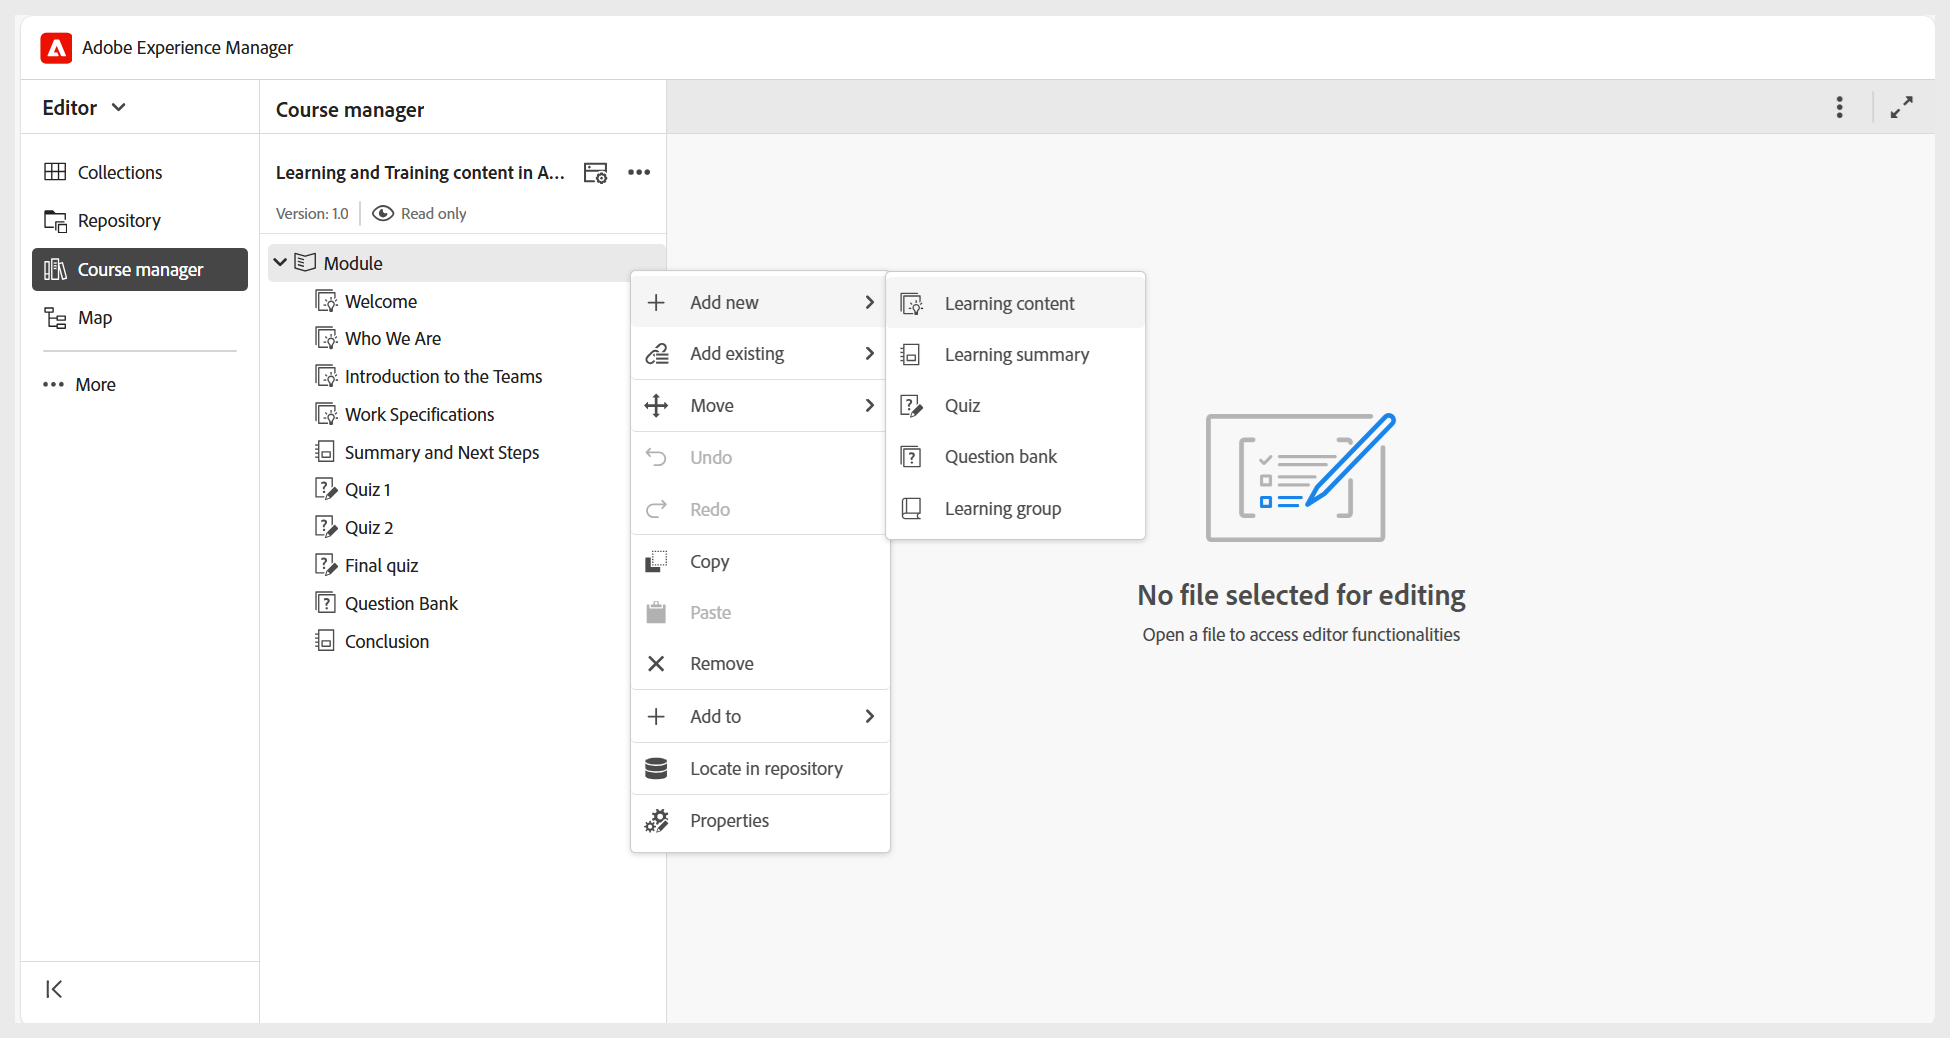
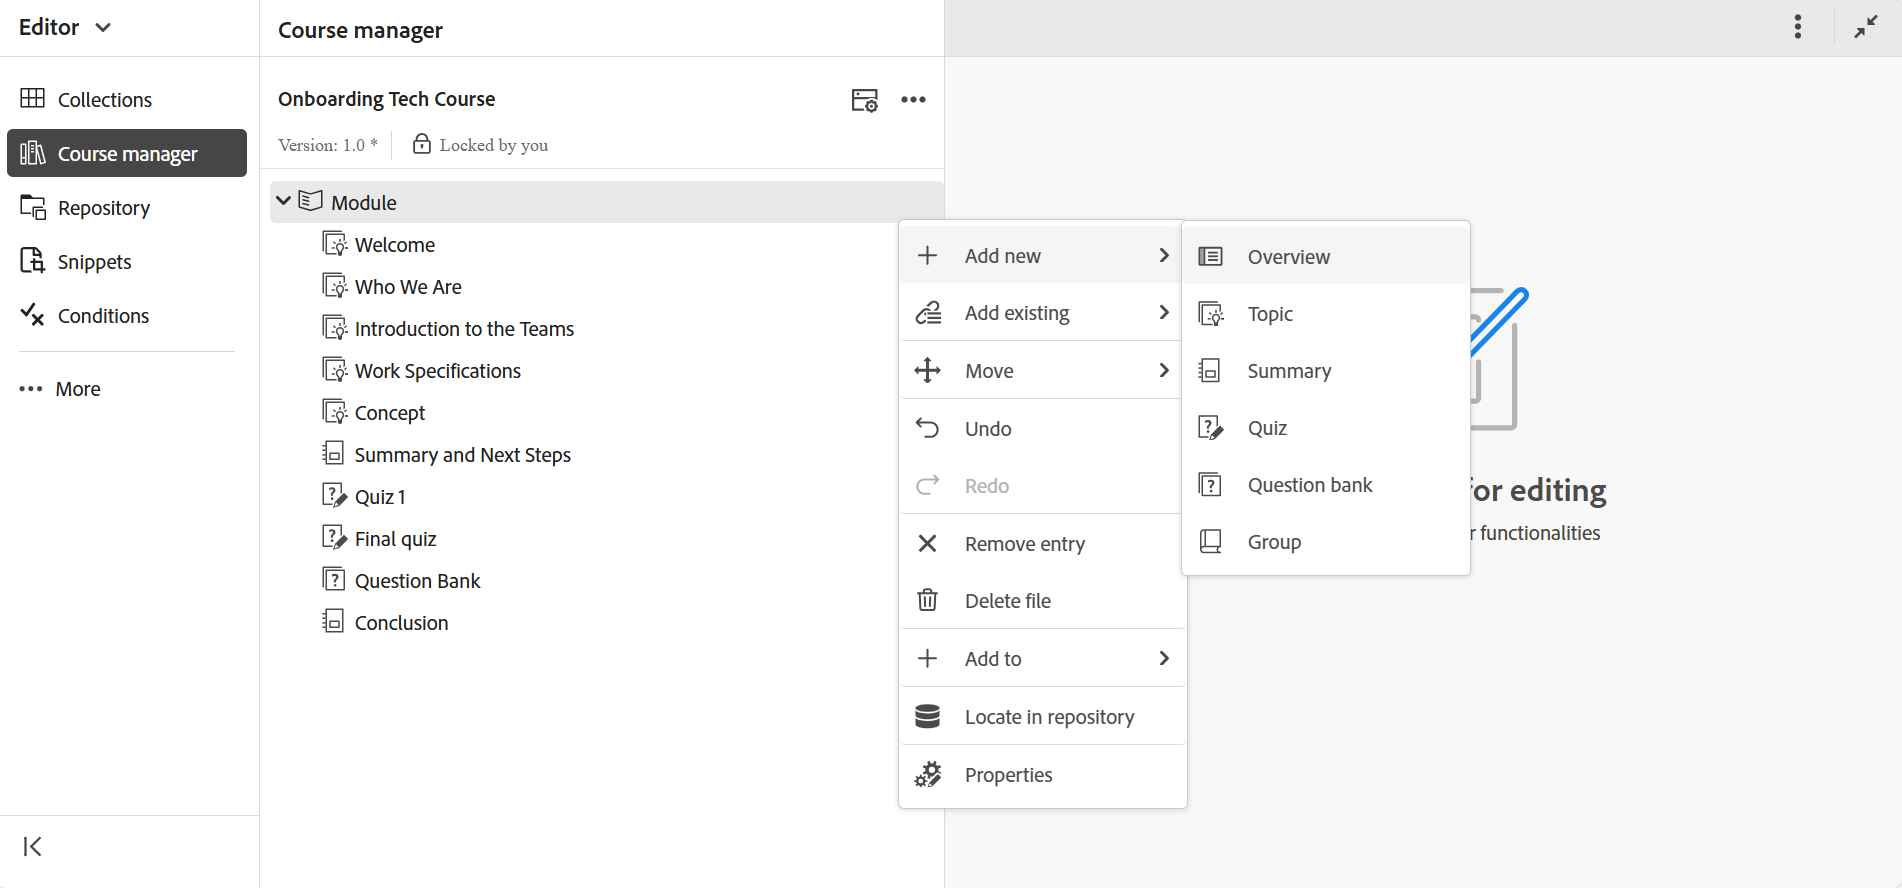
checking in quick start guide updates
Updated articles

diff --git a/help/product-guide/learning-content/manage-course.md b/help/product-guide/learning-content/manage-course.md
@@ -17,11 +17,12 @@ Perform the following steps to add new content in your course:
     
     ![](assets/learning-course-content.png)
 2. Select the type of content you want to create. The available options are:  
-    - **Learning content**: The main material in a course consists of short, focused pieces like steps, examples, or explanations that teach a specific skill or idea. For more details, view [Create and customize Learning content](./create-content.md). 
-    - **Learning summary**: A quick review at the end of a course chapter that reminds learners of the key points they just learned.    
+    - **Overview**: The first topic of your course that provides a quick introduction to what the course covers.
+    - **Topic**: The main material in a course consists of short, focused pieces like steps, examples, or explanations that teach a specific skill or idea. For more details, view [Create and customize Topic](./create-content.md). 
+    - **Summary**: A quick review at the end of a course chapter that reminds learners of the key points they just learned.    
     - **Quiz**: A set of questions used to check how well someone understands what they've learned. For more details, view [Create and manage Quiz](./create-quiz.md). 
     - **Question bank**: A shared pool of reusable questions that can be used to create quizzes quickly and consistently. For more details, view [Question bank](./create-qb.md). 
-    - **Learning group**: A Learning group helps organize related learning content like chapters, topics, and other modules into a logical order, building a clear hierarchy that makes it easier to manage and reuse training materials.     
+    - **Group**: A learning group helps organize related topics like chapters, topics, and other modules into a logical order, building a clear hierarchy that makes it easier to manage and reuse training materials.     
 3. Select **Create**. 
     The selected content is created and added to the course.  
 

diff --git a/help/product-guide/learning-content/create-content.md b/help/product-guide/learning-content/create-content.md
@@ -1,32 +1,32 @@
 ---
-title: Create Learning content
-description: Talks about creating a Learning content in the Learning and Training content.
+title: Create a Topic
+description: Talks about creating a Topic in the Learning and Training content.
 feature: Authoring
 role: User
 exl-id: a08a165d-801b-4b35-9626-b27471349327
 ---
-# Create Learning content
+# Create a Topic
 
-Perform the following steps to add Learning content to a course: 
+Perform the following steps to add a Topic to a course: 
 
 1. Open a course in the **Course manager** and select **Add new** from the **Options** menu.  
 
     ![](assets/workflow-learning-content.png){width="650" align="left"}
     
-1. Select **Learning content**.
+1. Select **Topic**.
    The **New learning content** dialog is displayed.  
 
-    ![](assets/learning-content-dialog.png){width="350" align="left"}
+    ![](assets/new-learning-topic-dialog.png){width="350" align="left"}
 
 1. Select the template you want from the dropdown menu. 
   
     ![](assets/template-types-lc.png){width="350" align="left"}
 
-1. Provide a suitable title for the Learning content. 
+1. Provide a suitable title for the Topic. 
 1. Select **Create**.
    
-Learning content is created within the course and appears in the Course manager panel. 
+A new learning topic is created within the course and appears in the Course manager panel. 
 
 >[!NOTE]
 >
-> Once you create new learning content, it is automatically assigned Version 1.0.
+> Once you create new learning topic, it is automatically assigned Version 1.0.

diff --git a/help/product-guide/learning-content/edit-content.md b/help/product-guide/learning-content/edit-content.md
@@ -1,21 +1,21 @@
 ---
-title: Edit Learning content
-description: Talks about how to edit the Learning content in the Learning and Training content
+title: Edit a Topic
+description: Talks about how to edit the learning topic in the Learning and Training content
 feature: Authoring
 role: User
 exl-id: 5ff569bd-cd46-4238-ade2-5367ff60180f
 ---
-# Edit Learning content
+# Edit Topic
 
-Perform the following steps for editing the Learning content: 
+Perform the following steps for editing the Topic: 
 
-1. Double-click the Learning content to open it from the Course manager panel.  
+1. Double-click the Topic to open it from the Course manager panel.  
 1. You must **Lock** the topic using the toggle as shown below. This allows you to edit the content, and no one else can make any changes to this topic. 
 
     ![](assets/lock-learning-content.png){width="650" align="left"}
 
 1. To add content to a topic, you can [add basic building blocks](./lc-basic-blocks.md) such as text, multimedia, along with various [interactive widgets](./lc-widgets.md).
-1. To save your work, use **Save as new version** to create a new version, or press Ctrl+S to overwrite the existing file. 
+1. To save your work, use **Save as new version** to create a new version, or press `Ctrl+S` to overwrite the existing file. 
 
     ![](assets/saving-learning-content.png){width="650" align="left"}
 

diff --git a/help/product-guide/learning-content/lc-basic-blocks.md b/help/product-guide/learning-content/lc-basic-blocks.md
@@ -1,15 +1,15 @@
 ---
-title: Add basic building blocks to your Learning content
-description: Learn about the basic building blocks you can add to your Learning content in the Learning and Training content
+title: Add basic building blocks to your Topic
+description: Learn about the basic building blocks you can add to your Topic in the Learning and Training content
 feature: Authoring
 role: User
 exl-id: 171b9df9-3782-4cfa-b450-7824e5fd390d
 ---
-# Add basic building blocks to your Learning content 
+# Add basic building blocks to your Topic 
 
-You can use the basic editing features available on the Learning content toolbar, as described below:
+You can use the basic editing features available on the Editor toolbar, as described below:
 
-- **Widgets**: Add widgets like accordion, carousel, hotspots, and more to your learning content using the **Insert** menu as shown below. For more details on interactive widgets, view [Use interactive widgets](./lc-widgets.md). 
+- **Widgets**: Add widgets like accordion, carousel, hotspots, and more to your topic or learning content using the **Insert** menu as shown below. For more details on interactive widgets, view [Use interactive widgets](./lc-widgets.md). 
 
      ![](assets/widgets-learning-content.png){width="650" align="left"}
 
